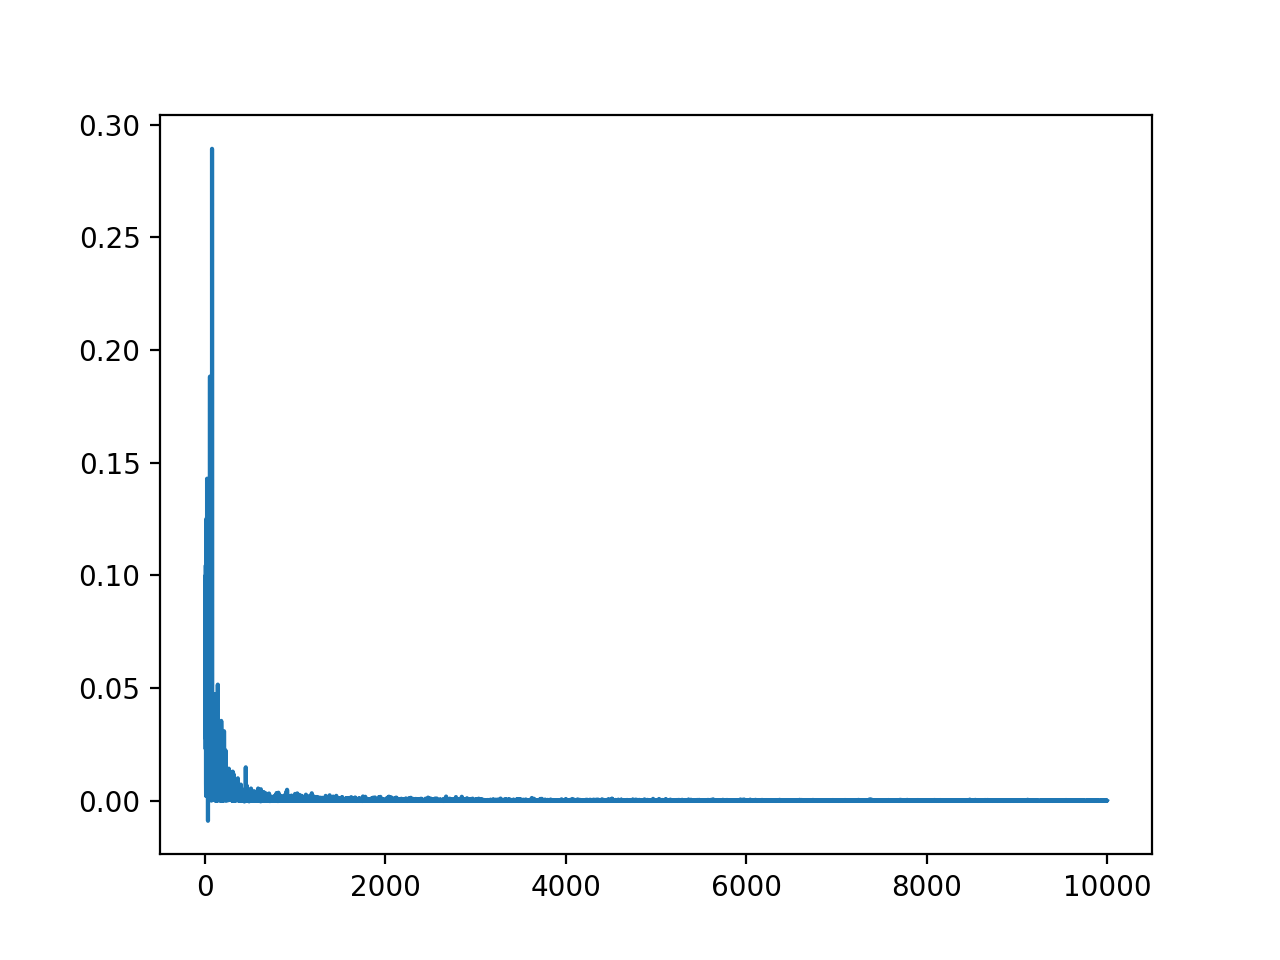
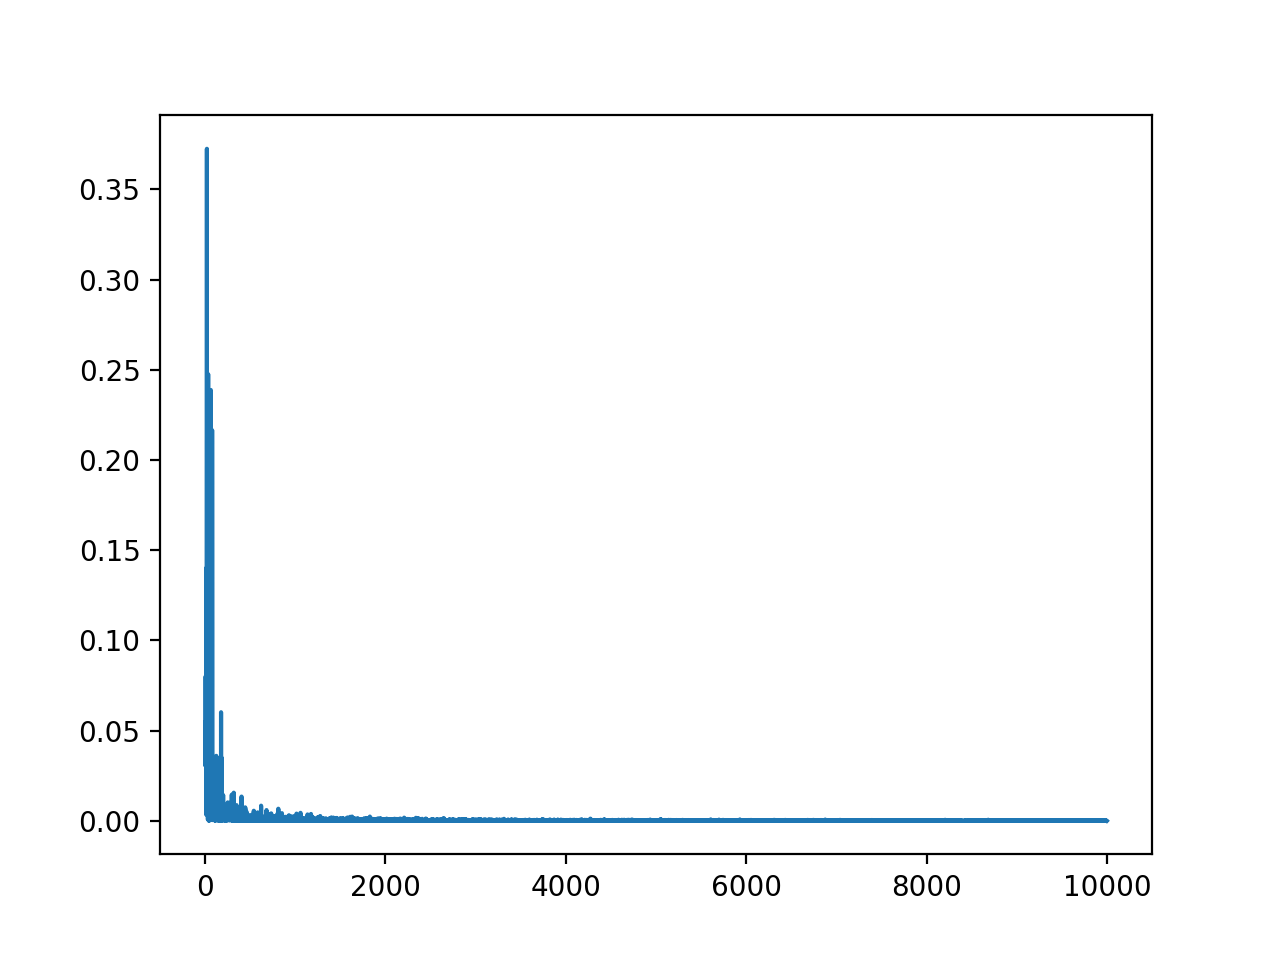
fixed for PEP8

diff --git a/two_tomography.py b/two_tomography.py
@@ -1,70 +1,89 @@
-import numpy as np
 from numpy import conjugate as con
 from numpy import kron
+import numpy as np
 import pprint
 import basis
-import pandas as pd
+# import pandas as pd
 import matplotlib.pyplot as plt
 import random
-import cmath
+import time
+
 
 class density_matrix:
-    bell = [1/np.sqrt(2)*np.array((1, 0, 0, 1)), 1/np.sqrt(2)*np.array((1, 0, 0, -1)),
-            1/np.sqrt(2)*np.array((0, 1, 1, 0)), 1/np.sqrt(2)*np.array((0, 1, -1, 0))]
-    initial = {"phy_plus":[0, 0.3], "phy_minus":[1, 0.2], "psi_plus":[2, 0.2], "psi_minus":[3, 0.3]} #latter one in [0, 1](1 is latter one) is the rate of the state.
+    bell = [1/np.sqrt(2)*np.array((1, 0, 0, 1)),
+            1/np.sqrt(2)*np.array((1, 0, 0, -1)),
+            1/np.sqrt(2)*np.array((0, 1, 1, 0)),
+            1/np.sqrt(2)*np.array((0, 1, -1, 0))]
+    initial = {"phy_plus": [0, 0.99], "phy_minus": [1, 0.01],
+               "psi_plus": [2, 0], "psi_minus": [3, 0]}
+    # latter one in [0, 1](1 is latter one) is the rate of the state.
     I = np.array(((1, 0), (0, 1)))
     x = np.array(((0, 1), (1, 0)))
     y = np.array(((0, -1j), (1j, 0)))
     z = np.array(((1, 0), (0, -1)))
     state_list = [I, x, y, z]
+
     @classmethod
     def two_tomography(self):
         bell = self.bell
         initial = self.initial
         state_list = self.state_list
-        I = self.I
-        x = self.x
-        y = self.y
-        z = self.z
         mk_rho = 0
-        state = ["I", "x", "y", "z"]
+        # state = ["I", "x", "y", "z"]
         t_rho = 0
         measurement_basis = basis.table_mb
-        for i in initial.values():#iterate for each bell pair
+        for i in initial.values():  # iterate for each bell pair
             probability = []
             Stokes_parameters = []
             rho = 0
 
-            #calculate probability of each state.
+            # calculate probability of each state.
             for measure in measurement_basis:
-                    prob = np.vdot(np.dot(con(bell[i[0]]), con(measure)), np.dot(measure, bell[i[0]]))  #con is the conjugate operation
+                    prob = np.vdot(np.dot(con(bell[i[0]]), con(measure)),
+                                   np.dot(measure, bell[i[0]]))
+                    # con is the conjugate operation
                     probability.append(prob * i[0])
-            probability =  np.array(probability).reshape(6, 6)
+            probability = np.array(probability).reshape(6, 6)
             # print(probability)
 
-            #calculate stokes parameters
-            S00 = probability[0][0] + probability[0][1] + probability[1][0] + probability[1][1]
+            # calculate stokes parameters
+            S00 = probability[0][0] + probability[0][1]
+            + probability[1][0] + probability[1][1]
             Stokes_parameters.append(S00)
 
             for c in range(0, 5, 2):
-                Stokes_parameters.append(probability[c][c] - probability[c][c + 1] + probability[c + 1][c] - probability[c + 1][c + 1])
-
+                Stokes_parameters.append(probability[c][c] -
+                                         probability[c][c + 1] +
+                                         probability[c + 1][c] -
+                                         probability[c + 1][c + 1])
 
             for col in range(0, 5, 2):
                 for low in range(0, 5, 2):
-                    Stokes_parameters.append(probability[col][low] + probability[col + 1][low + 1] - probability[col][low + 1] - probability[col + 1][low])
+                    Stokes_parameters.append(probability[col][low] +
+                                             probability[col + 1][low + 1] -
+                                             probability[col][low + 1] -
+                                             probability[col + 1][low])
 
-            S10 = probability[0][0] - probability[0][1] + probability[1][0] - probability[1][1]
-            S20 = probability[2][2] - probability[2][3] + probability[3][2] - probability[3][3]
-            S30 = probability[4][4] - probability[4][5] + probability[5][4] - probability[5][5]
+            S10 = (probability[0][0] -
+                   probability[0][1] +
+                   probability[1][0] -
+                   probability[1][1])
+            S20 = (probability[2][2] -
+                   probability[2][3] +
+                   probability[3][2] -
+                   probability[3][3])
+            S30 = (probability[4][4] -
+                   probability[4][5] +
+                   probability[5][4] -
+                   probability[5][5])
 
             Stokes_parameters.insert(4, S10)
             Stokes_parameters.insert(8, S20)
-            Stokes_parameters.insert(12, S30) #FIXME can more efficient
-            #finished calculattion of Stokes_parameters
+            Stokes_parameters.insert(12, S30)  # FIXME can more efficient
+            # finished calculattion of Stokes_parameters
 
-            stat = [str(k) + str(c) for k in state for c in state]
-            #making density matrix from stokes parameters
+            # stat = [str(k) + str(c) for k in state for c in state]
+            # making density matrix from stokes parameters
             krons = [kron(ul, rl) for ul in state_list for rl in state_list]
             # print(krons)
             for tl in range(len(Stokes_parameters)):
@@ -76,37 +95,40 @@ class density_matrix:
 
         for t in initial.values():
             t_rho = t_rho + t[1] * kron(bell[t[0]], con(bell[t[0]]))
+        t_rho = np.array(t_rho, dtype="complex")
 
-        # self.return_table(probability) #FIXME return value is not list but matrix. must repair
+        # self.return_table(probability)
+        # FIXME return value is not list but matrix. must repair
         # print("========== measure density matrix ==========")
         # pprint.pprint(mk_rho)
         # print("============ true density matrix ===========")
         # pprint.pprint(t_rho.reshape(4, 4))
         return mk_rho, t_rho, probability
 
-
     @classmethod
     def return_table(self, probability):
-        initial = self.initial
-        measurement_basis = basis.table_mb
+        # initial = self.initial
+        # measurement_basis = basis.table_mb
 
         # print("==============probability table==============")
-        # df = pd.DataFrame({'measurement_basis':['X+', 'X-', 'Y+', 'Y-', 'Z+', 'Z-'],
-        #                    'X+':probability[0:36:6],
-        #                    'X-':probability[1:36:6],
-        #                    'Y+':probability[2:36:6],
-        #                    'Y-':probability[3:36:6],
-        #                    'Z+':probability[4:36:6],
-        #                    'Z-':probability[5:36:6]})
+        """df = pd.DataFrame({'measurement_basis': ['X+', 'X-',
+                                                'Y+', 'Y-',
+                                                 'Z+', 'Z-'],
+                            'X+':probability[0:36:6],
+                            'X-':probability[1:36:6],
+                            'Y+':probability[2:36:6],
+                            'Y-':probability[3:36:6],
+                            'Z+':probability[4:36:6],
+                            'Z-':probability[5:36:6]})"""
         # print(df)
-        return df
+        # return df
 
     @classmethod
     def evaluation_density(self, iter):
         a, t_rho, p = self.two_tomography()
         rho = self.tomograph_density(iter)
         t_rho = np.array(t_rho).reshape(4, 4)
-        rho = np.array(rho).reshape(4,4)
+        rho = np.array(rho).reshape(4, 4)
         # print("=================result=========================")
         # print(t_rho.reshape(4, 4))
         # print(rho)
@@ -114,22 +136,25 @@ class density_matrix:
         error = 0
         for i in range(4):
             for j in range(4):
-                error = error + np.square(t_rho[i][j] - rho[i][j]) / 2 * t_rho[i][j]
+                error = error + np.square(t_rho[i][j] -
+                                          rho[i][j]) / 2 * t_rho[i][j]
         print("===============differences===================")
         print(error)
-        return error
+        return error, rho, t_rho
 
     @classmethod
     def iterate_sim(self, iter):
         errors = []
         for k in range(iter):
-            print("now")
-            print(k)
-            err = self.evaluation_density(k)
+            print("now", k)
+            err, rho, t_rho = self.evaluation_density(k)
             errors.append(err)
+        print("==============tomography_matrix==============")
+        pprint.pprint(rho)
+        print("=============true density matrix=============")
+        pprint.pprint(t_rho)
         plt.plot(errors)
         plt.show()
-
 
     @classmethod
     def tomograph_density(self, iter):
@@ -140,20 +165,23 @@ class density_matrix:
         measurement_basis = basis.table_mb
         for j in initial.values():
             probability = []
-            st = [] # stokes parameter
+            st = []  # stokes parameter
             rho = 0
             tomography = np.array(((0, 0, 0, 0, 0, 0),
                                    (0, 0, 0, 0, 0, 0),
                                    (0, 0, 0, 0, 0, 0),
                                    (0, 0, 0, 0, 0, 0),
                                    (0, 0, 0, 0, 0, 0),
-                                   (0, 0, 0, 0, 0, 0)), dtype = 'complex') #FIXME zerosが上手く動かない
+                                   (0, 0, 0, 0, 0, 0)),
+                                  dtype='complex')  # FIXME zeros does not work
+
             result = np.array(((0, 0, 0, 0, 0, 0),
                                (0, 0, 0, 0, 0, 0),
                                (0, 0, 0, 0, 0, 0),
                                (0, 0, 0, 0, 0, 0),
                                (0, 0, 0, 0, 0, 0),
-                               (0, 0, 0, 0, 0, 0)), dtype = 'complex')
+                               (0, 0, 0, 0, 0, 0)),
+                              dtype='complex')
             sum = 0
             tomography.reshape(6, 6)
             for n in range(iter):
@@ -162,14 +190,16 @@ class density_matrix:
                 tomography[ran][ran2] = tomography[ran][ran2] + 1
 
             for measure in measurement_basis:
-                    prob = np.vdot(np.dot(con(bell[j[0]]), con(measure)), np.dot(measure, bell[j[0]]))  #con is the conjugate operation
+                    prob = np.vdot(np.dot(con(bell[j[0]]), con(measure)),
+                                   np.dot(measure, bell[j[0]]))
+                    # con is the conjugate operation
                     probability.append(prob)
-            probability =  np.array(probability).reshape(6, 6)
+            probability = np.array(probability).reshape(6, 6)
 
             for cols in range(6):
                 for lows in range(6):
-                    result[cols][lows] = probability[cols][lows] * tomography[cols][lows]
-
+                    result[cols][lows] = (probability[cols][lows] *
+                                          tomography[cols][lows])
             sum = result[0][0] + result[0][1] + result[1][0] + result[1][1]
 
             for cols in range(6):
@@ -183,13 +213,16 @@ class density_matrix:
             st.append(S00)
 
             for c in range(0, 5, 2):
-                st.append(result[c][c] - result[c][c + 1] + result[c + 1][c] - result[c + 1][c + 1])
+                st.append(result[c][c] - result[c][c + 1] +
+                          result[c + 1][c] - result[c + 1][c + 1])
 
             for col in range(0, 5, 2):
                 for low in range(0, 5, 2):
                     # print(col, low)
-                    # print(re[col][low] + re[col + 1][low + 1] + re[col][low + 1] + re[col + 1][low])
-                    st.append(result[col][low] + result[col + 1][low + 1] - result[col][low + 1] - result[col + 1][low])
+                    # print(re[col][low] + re[col + 1][low + 1] +
+                    # re[col][low + 1] + re[col + 1][low])
+                    st.append(result[col][low] + result[col + 1][low + 1] -
+                              result[col][low + 1] - result[col + 1][low])
 
             S10 = result[0][0] - result[0][1] + result[1][0] - result[1][1]
             S20 = result[2][2] - result[2][3] + result[3][2] - result[3][3]
@@ -199,7 +232,7 @@ class density_matrix:
             st.insert(8, S20)
             st.insert(12, S30)
 
-            #making density matrix from stokes parameters
+            # making density matrix from stokes parameters
             krons = [kron(ul, rl) for ul in state_list for rl in state_list]
             for tl in range(len(st)):
                 rho = rho + st[tl] * krons[tl]
@@ -213,7 +246,8 @@ class density_matrix:
         return to_rho
 
 if __name__ == '__main__':
-    density_matrix.iterate_sim(10000) #difine how many times iterate in the method iterate_sim(iteration number)
-    # density_matrix.evaluation_density(10000)
-     # density_matrix.tomography_simulater(0, 10000)
-     # density_matrix.two_tomography()
+    start = time.time()
+    density_matrix.iterate_sim(1000)
+    # difine how many times iterate in the method iterate_sim(iteration number)
+    print(time.time() - start)
+    # density_matrix.two_tomography()
